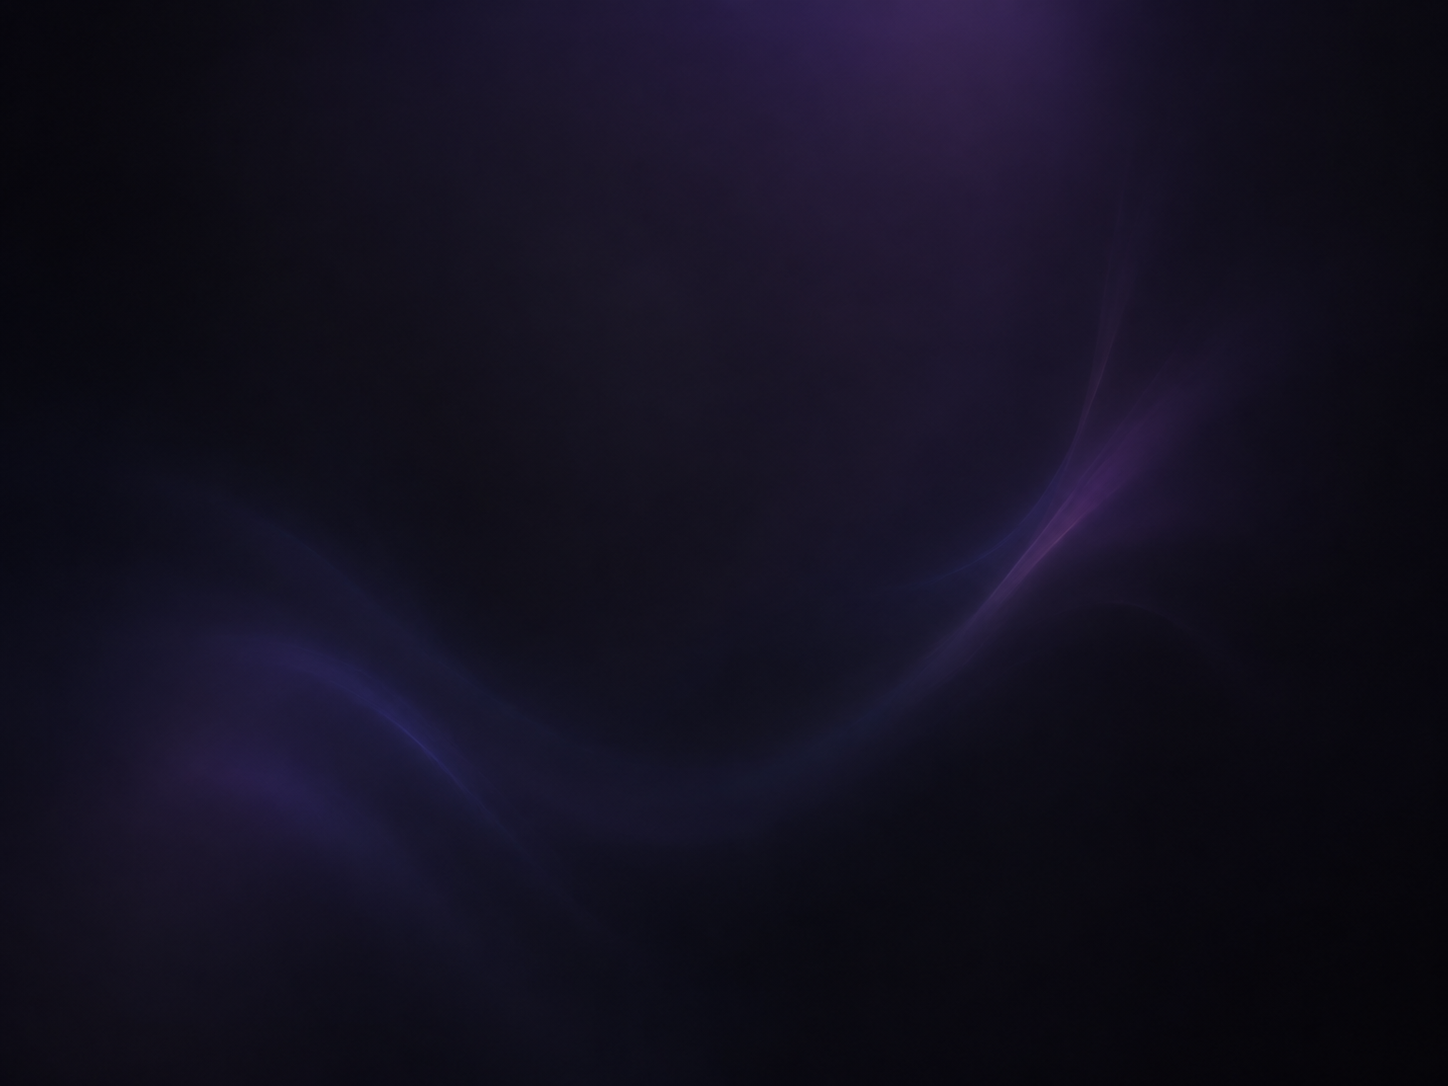
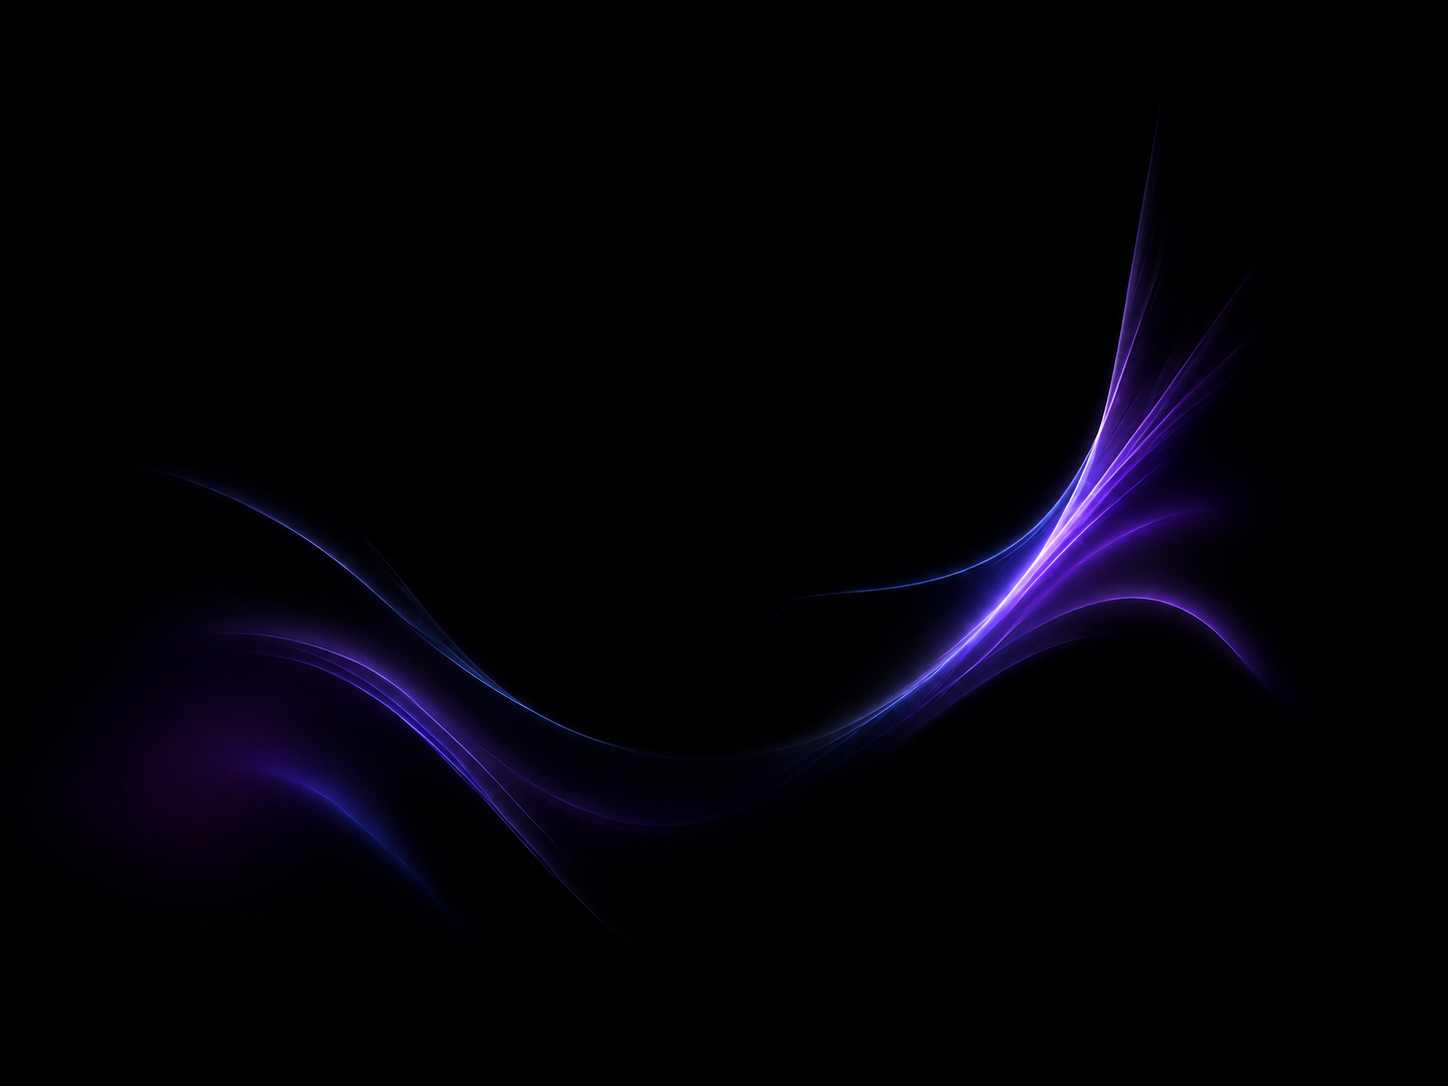
a

diff --git a/src/renderer/design.css b/src/renderer/design.css
@@ -2050,14 +2050,17 @@ select.native-select {
   overflow-x: hidden;
   overflow-y: auto;
   background-color: var(--surface);
+  background-position: center;
+  background-repeat: no-repeat;
+  background-size: cover;
+  /* Only recolor the existing hue; black, white and the image contrast stay neutral. */
   background-image: linear-gradient(
       color-mix(in srgb, var(--surface) 18%, transparent),
       color-mix(in srgb, var(--surface) 18%, transparent)
     ),
+    linear-gradient(var(--accent), var(--accent)),
     url("../../assets/chat/background-light.png");
-  background-position: center;
-  background-repeat: no-repeat;
-  background-size: cover;
+  background-blend-mode: normal, hue, normal;
   scroll-behavior: smooth;
   scrollbar-gutter: stable;
 }
@@ -2135,6 +2138,7 @@ body[data-theme="dark"] .messages {
       color-mix(in srgb, var(--surface) 28%, transparent),
       color-mix(in srgb, var(--surface) 28%, transparent)
     ),
+    linear-gradient(var(--accent), var(--accent)),
     url("../../assets/chat/background-dark.png");
 }
 .message-link {
